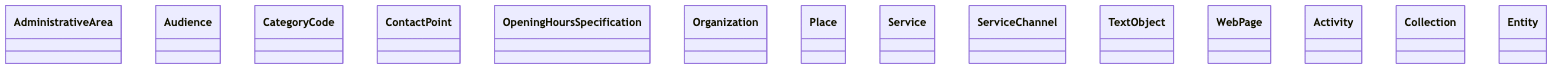
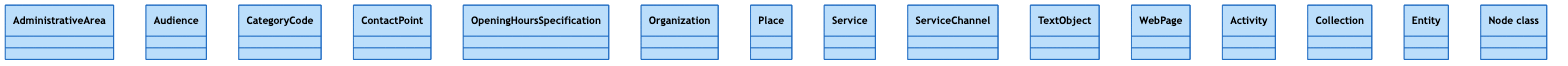
Show legend in dreamkg verification image and note
dreamkg (class-only) renders all classes light blue with a single "Node
class" legend entry (no edge-class entry). Updated the image and note.

diff --git a/docs/verification-visualize-schema.md b/docs/verification-visualize-schema.md
@@ -50,12 +50,14 @@ npx -y @mermaid-js/mermaid-cli -i spoke-genelab.mermaid -o spoke-genelab.png -s 
 dreamkg has 14 schema.org classes but no source/target metadata on its
 predicates. The diagram renders cleanly (exit 0, zero syntax-error markers) as:
 
-- **14 class boxes** — `AdministrativeArea`, `Audience`, `CategoryCode`,
-  `ContactPoint`, `OpeningHoursSpecification`, `Organization`, `Place`,
-  `Service`, `ServiceChannel`, `TextObject`, `WebPage`, `Activity`,
+- **14 class boxes** (all light blue) — `AdministrativeArea`, `Audience`,
+  `CategoryCode`, `ContactPoint`, `OpeningHoursSpecification`, `Organization`,
+  `Place`, `Service`, `ServiceChannel`, `TextObject`, `WebPage`, `Activity`,
   `Collection`, `Entity`.
 - **34 predicates as `%%` comments** (e.g. `address`, `name`, `telephone`),
   which Mermaid ignores — so no edges are fabricated.
+- A **legend with only the "Node class" entry** — the edge-class legend entry is
+  omitted because this KG has no edge classes.
 
 ![Rendered dreamkg schema diagram](dreamkg-schema.png)
 